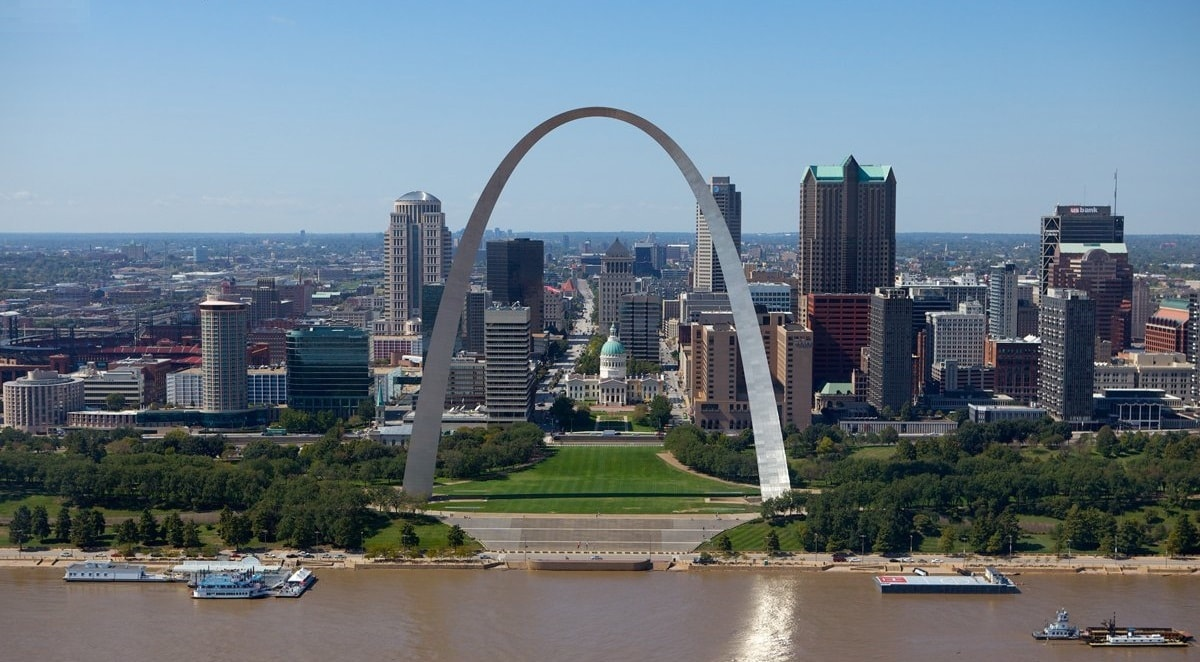
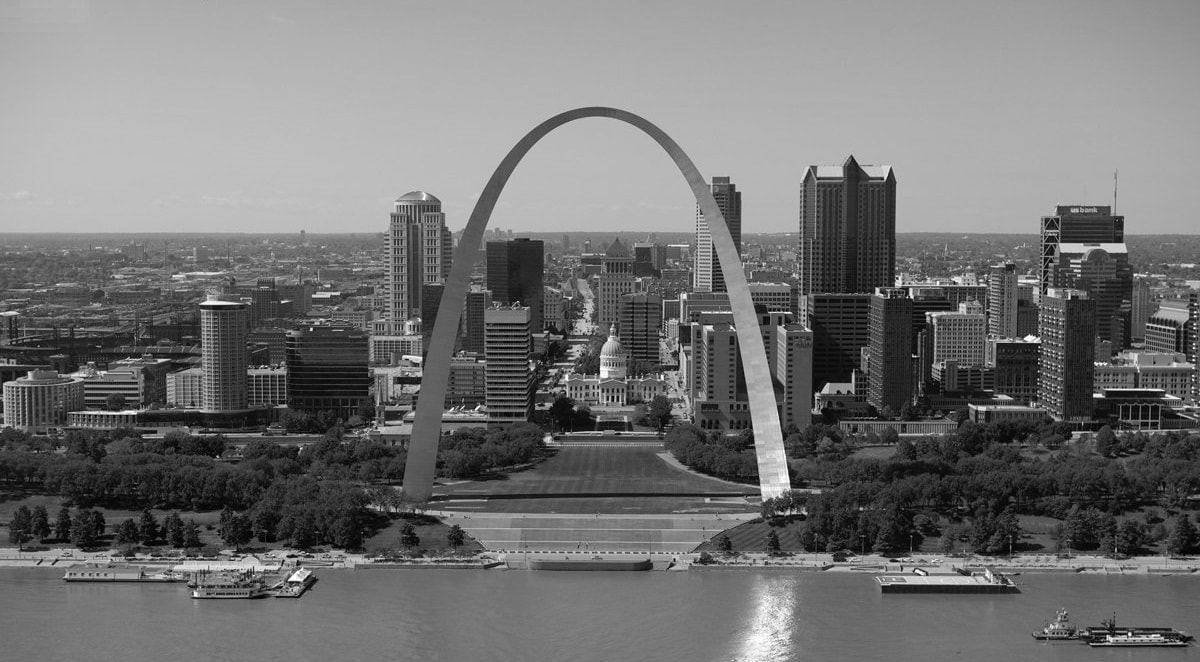
refactor

diff --git a/src/styles/experience.css b/src/styles/experience.css
@@ -1,0 +1,69 @@
+#experience {
+  border-top: 2px solid #222;
+  border-bottom: 2px solid #222;
+  background-color: rgb(64, 64, 64);
+  padding-bottom: 40px;
+}
+
+#experience header h2 {
+  position: relative;
+  border-radius: 5px;
+  color: #222;
+  background-color: #fff;
+  display: inline-block;
+  width: auto;
+  margin: 0 10px;
+  margin-top: 40px;
+  padding: 40px 20px;
+  border: 2px solid #222;
+}
+
+#experience header h2 i {
+  margin-right: 5px;
+  color: #0077b5;
+}
+
+#experience section {
+  padding-bottom: 20px;
+}
+
+#experience .caret {
+  position: absolute;
+  background-color: transparent;
+  padding: 0;
+  bottom: -40px;
+  left: 60px;
+  width: 0;
+  height: 0;
+  border-left: 40px solid transparent;
+  border-right: 40px solid transparent;
+  border-top: 40px solid #222;
+}
+
+#experience .caret-inset {
+  position: relative;
+  background-color: transparent;
+  padding: 0;
+  bottom: 3px;
+  left: -37px;
+  width: 0;
+  height: 0;
+  border-left: 37px solid transparent;
+  border-right: 37px solid transparent;
+  border-top: 37px solid #fff;
+}
+
+#experience img {
+  -webkit-filter: grayscale(100%); /* Chrome, Safari, Opera */
+  filter: grayscale(100%);
+
+  width: auto;
+  height: 50px;
+
+  transition: filter 0.5s;
+}
+
+#experience img:hover {
+  -webkit-filter: grayscale(0%); /* Chrome, Safari, Opera */
+  filter: grayscale(0%);
+}

diff --git a/src/styles/education.css b/src/styles/education.css
@@ -1,0 +1,53 @@
+#education {
+  background-color: #fff;
+  padding-bottom: 40px;
+}
+
+#education .header-wrapper {
+  position: relative;
+  background-color: rgb(235, 235, 235);
+}
+
+#education header h2 {
+  position: relative;
+  color: #222;
+  margin: 0;
+  padding: 40px 0;
+}
+
+#education header h2 i {
+  margin-right: 5px;
+  color: #0077b5;
+}
+
+#education section {
+  padding-bottom: 20px;
+}
+
+#education .caret {
+  position: absolute;
+  background-color: transparent;
+  padding: 0;
+  bottom: -40px;
+  left: 0;
+  width: 0;
+  height: 0;
+  border-left: 40px solid transparent;
+  border-right: 40px solid transparent;
+  border-top: 40px solid rgb(235, 235, 235);
+}
+
+#education img {
+  -webkit-filter: grayscale(100%); /* Chrome, Safari, Opera */
+  filter: grayscale(100%);
+
+  width: auto;
+  height: 75px;
+
+  transition: filter 0.5s;
+}
+
+#education img:hover {
+  -webkit-filter: grayscale(0%); /* Chrome, Safari, Opera */
+  filter: grayscale(0%);
+}

diff --git a/src/components/App.js b/src/components/App.js
@@ -1,6 +1,11 @@
 import React, { Component } from 'react';
 import Header from './Header';
 import Skills from './Skills';
+import Experience from './Experience';
+import Education from './Education';
+import Projects from './Projects';
+import About from './About';
+import Contact from './Contact';
 import '../styles/app.css';
 
 class App extends Component {
@@ -12,12 +17,11 @@ class App extends Component {
         <main className="flexbox">
           <Header />
           <Skills />
-
-          <div className="flexbox-item fill-area flex-column">
-            <div className="flexbox-item">Hello world!</div>
-            <div className="flexbox-item">Hello world!</div>
-            <div className="flexbox-item">Hello world!</div>
-          </div>
+          <Experience />
+          <Education />
+          <Projects />
+          <About />
+          <Contact />
 
           <footer id="footer">
             Footer

diff --git a/src/components/Experience.js b/src/components/Experience.js
@@ -1,0 +1,25 @@
+import React, { Component } from 'react';
+import '../styles/experience.css';
+
+class Experience extends Component {
+  render() {
+    return (
+      <section id="experience">
+        <div className="header-wrapper">
+          <header className="flexbox-item flex-row">
+            <h2><span className="caret"><span className="caret-inset"></span></span><i className="fas fa-hashtag"></i> Professional Experience</h2>
+          </header>
+        </div>
+        <a href="https://www.oreillyauto.com">
+          <img id="oreilly" src={require('../images/oreilly.jpg')} title="O'Reilly Auto Parts" alt="O'Reilly Auto Parts" />
+        </a>
+        <a href="http://www.boeing.com">
+          <img id="boeing" src={require('../images/boeing.jpg')} title="The Boeing Company" alt="The Boeing Company" />
+        </a>
+
+      </section>
+    );
+  }
+}
+
+export default Experience;

diff --git a/src/styles/projects.css b/src/styles/projects.css
@@ -1,27 +1,27 @@
-#skills {
-  background-color: #fff;
+#projects {
+  background-color: rgb(235, 235, 235);
   padding-bottom: 40px;
 }
 
-#skills header h2 {
+#projects header h2 {
   position: relative;
   padding: 20px;
   text-align: center;
 }
 
-#skills header h2 span {
-  background-color: #fff;
+#projects header h2 span {
+  background-color: rgb(235, 235, 235);
   padding: 0 15px;
   position: relative;
   z-index: 1;
 }
 
-#skills header h2 span i {
+#projects header h2 span i {
   margin-right: 5px;
   color: #0077b5;
 }
 
-#skills header h2:before {
+#projects header h2:before {
   content: "";
   display: block;
   border-bottom: 2px solid #222222;
@@ -32,6 +32,6 @@
   right: 10%;
 }
 
-#skills section {
+#projects section {
   padding-bottom: 20px;
 }

diff --git a/src/styles/contact.css b/src/styles/contact.css
@@ -1,27 +1,27 @@
-#skills {
-  background-color: #fff;
+#contact {
+  background-color: rgb(235, 235, 235);
   padding-bottom: 40px;
 }
 
-#skills header h2 {
+#contact header h2 {
   position: relative;
   padding: 20px;
   text-align: center;
 }
 
-#skills header h2 span {
-  background-color: #fff;
+#contact header h2 span {
+  background-color: rgb(235, 235, 235);
   padding: 0 15px;
   position: relative;
   z-index: 1;
 }
 
-#skills header h2 span i {
+#contact header h2 span i {
   margin-right: 5px;
   color: #0077b5;
 }
 
-#skills header h2:before {
+#contact header h2:before {
   content: "";
   display: block;
   border-bottom: 2px solid #222222;
@@ -32,6 +32,6 @@
   right: 10%;
 }
 
-#skills section {
+#contact section {
   padding-bottom: 20px;
 }

diff --git a/src/styles/about.css b/src/styles/about.css
@@ -1,27 +1,27 @@
-#skills {
-  background-color: #fff;
+#about {
+  background-color: rgb(235, 235, 235);
   padding-bottom: 40px;
 }
 
-#skills header h2 {
+#about header h2 {
   position: relative;
   padding: 20px;
   text-align: center;
 }
 
-#skills header h2 span {
-  background-color: #fff;
+#about header h2 span {
+  background-color: rgb(235, 235, 235);
   padding: 0 15px;
   position: relative;
   z-index: 1;
 }
 
-#skills header h2 span i {
+#about header h2 span i {
   margin-right: 5px;
   color: #0077b5;
 }
 
-#skills header h2:before {
+#about header h2:before {
   content: "";
   display: block;
   border-bottom: 2px solid #222222;
@@ -32,6 +32,6 @@
   right: 10%;
 }
 
-#skills section {
+#about section {
   padding-bottom: 20px;
 }

diff --git a/src/components/Education.js b/src/components/Education.js
@@ -1,0 +1,21 @@
+import React, { Component } from 'react';
+import '../styles/education.css';
+
+class Education extends Component {
+  render() {
+    return (
+      <section id="education">
+        <div className="header-wrapper">
+          <header className="flexbox-item flex-row">
+            <h2><span className="caret"><span className="caret-inset"></span></span><i className="fas fa-hashtag"></i> Education</h2>
+          </header>
+        </div>
+        <a href="https://www.missouristate.edu/">
+          <img id="msu" src={require('../images/missouri_state_university.jpg')} title="Missouri State University" alt="Missouri State University" />
+        </a>
+      </section>
+    );
+  }
+}
+
+export default Education;

diff --git a/src/components/Projects.js b/src/components/Projects.js
@@ -1,0 +1,17 @@
+import React, { Component } from 'react';
+import '../styles/projects.css';
+
+class Projects extends Component {
+  render() {
+    return (
+      <section id="projects">
+        <header className="flexbox-item flex-row">
+          <h2><span><i className="fas fa-hashtag"></i> Projects</span></h2>
+        </header>
+
+      </section>
+    );
+  }
+}
+
+export default Projects;

diff --git a/src/components/Contact.js b/src/components/Contact.js
@@ -1,0 +1,17 @@
+import React, { Component } from 'react';
+import '../styles/contact.css';
+
+class Contact extends Component {
+  render() {
+    return (
+      <section id="contact">
+        <header className="flexbox-item flex-row">
+          <h2><span><i className="fas fa-hashtag"></i> Contact Me</span></h2>
+        </header>
+
+      </section>
+    );
+  }
+}
+
+export default Contact;

diff --git a/src/components/About.js b/src/components/About.js
@@ -1,0 +1,17 @@
+import React, { Component } from 'react';
+import '../styles/about.css';
+
+class About extends Component {
+  render() {
+    return (
+      <section id="about">
+        <header className="flexbox-item flex-row">
+          <h2><span><i className="fas fa-hashtag"></i> About Me</span></h2>
+        </header>
+        
+      </section>
+    );
+  }
+}
+
+export default About;

diff --git a/src/styles/app.css b/src/styles/app.css
@@ -29,6 +29,6 @@
  -moz-transform: translateZ(-1px) scale(2);
  transform: translateZ(-1px) scale(2);
 
- -webkit-filter: grayscale(50%); /* Chrome, Safari, Opera */
+ -webkit-filter: grayscale(100%); /* Chrome, Safari, Opera */
  filter: grayscale(100%);
 }
